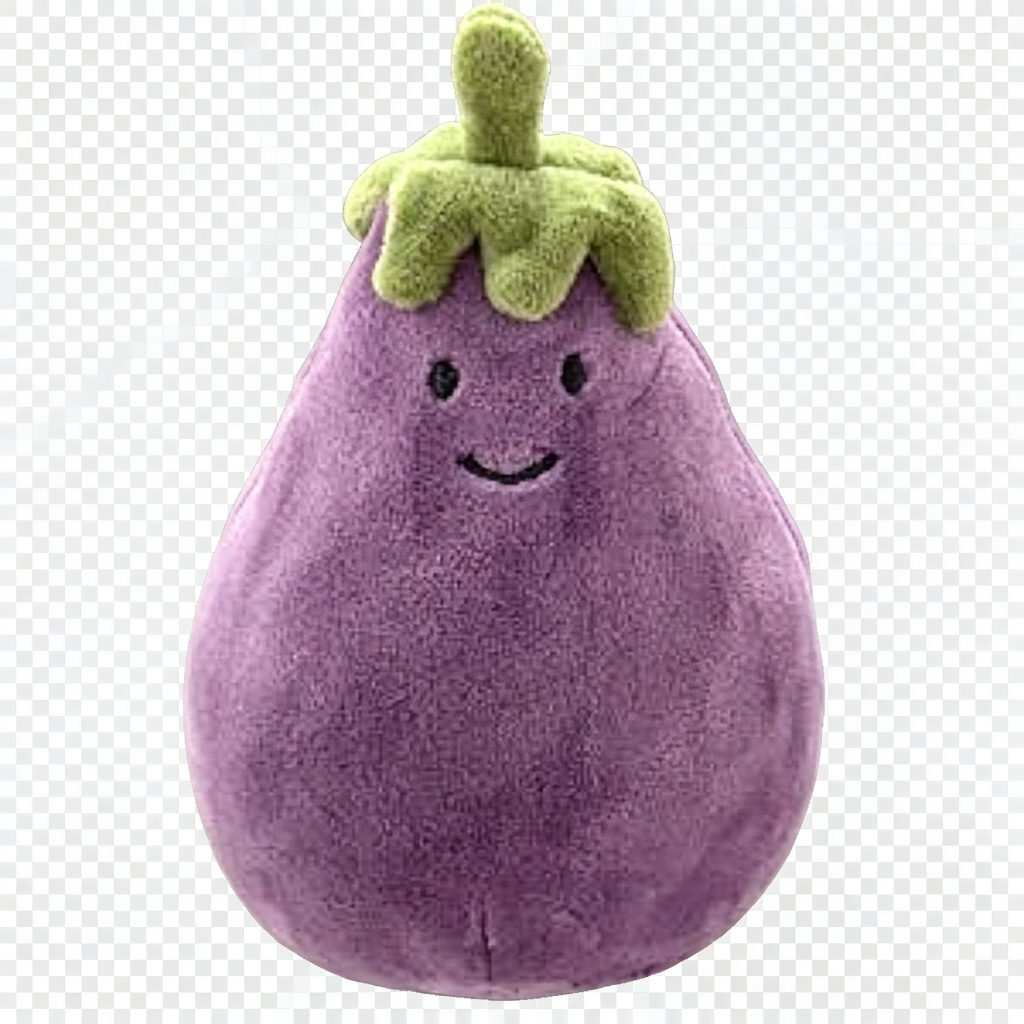
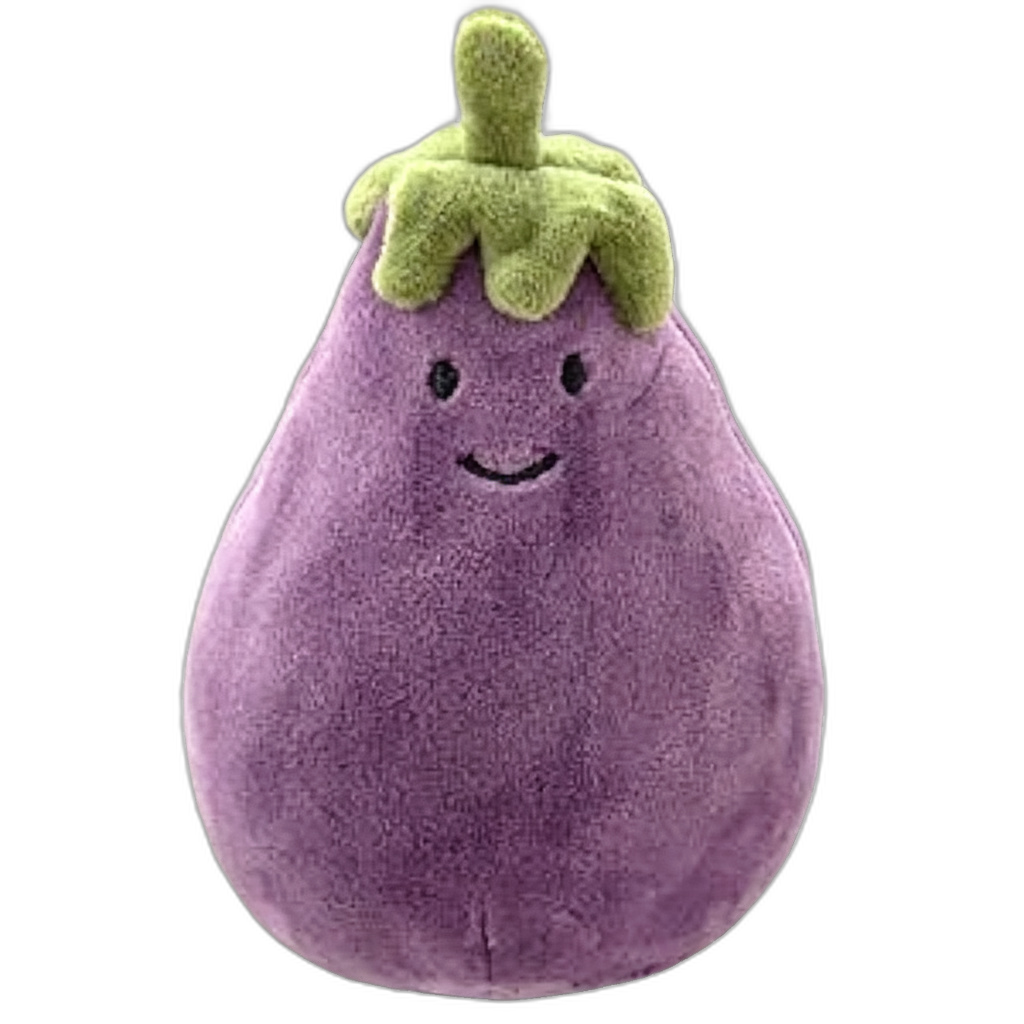
feat: 实现 macOS 和 Windows 的原生顶层窗口功能

diff --git a/main.py b/main.py
@@ -7,11 +7,78 @@
 import sys
 import os
 import random
+from ctypes import CFUNCTYPE, c_char_p, c_long, c_void_p, cdll, util
 from PyQt5.QtWidgets import (QApplication, QWidget, QLabel, QMenu, QAction,
                              QVBoxLayout, QHBoxLayout, QPushButton, QDialog,
                              QSlider, QGraphicsDropShadowEffect)
-from PyQt5.QtCore import Qt, QTimer, QPropertyAnimation, QEasingCurve, QPoint, QSize, pyqtProperty
+from PyQt5.QtCore import Qt, QTimer, QPropertyAnimation, QEasingCurve, QPoint, QSize, QRect, pyqtProperty
 from PyQt5.QtGui import QPixmap, QPainter, QColor, QFont, QFontMetrics, QPainterPath
+
+
+# macOS: Qt 的 WindowStaysOnTopHint 约等于 level=8；此前误用 NSFloatingWindowLevel=3 反而更低
+# 置顶用 NSStatusWindowLevel=25，才能压过普通应用窗口
+_MAC_STATUS_LEVEL = 25
+_MAC_NORMAL_LEVEL = 0
+# CanJoinAllSpaces | Stationary | FullScreenAuxiliary
+_MAC_COLLECTION_BEHAVIOR = (1 << 0) | (1 << 4) | (1 << 8)
+_HWND_TOPMOST = -1
+_HWND_NOTOPMOST = -2
+_SWP_NOMOVE = 0x0002
+_SWP_NOSIZE = 0x0001
+_SWP_SHOWWINDOW = 0x0040
+
+
+def apply_native_topmost(widget, enabled):
+    """用系统原生 API 设置置顶（Qt 的 WindowStaysOnTopHint 在 macOS 上常失效）"""
+    if widget is None:
+        return
+    try:
+        if sys.platform == "darwin":
+            _macos_set_window_level(widget, enabled)
+        elif sys.platform == "win32":
+            _windows_set_topmost(widget, enabled)
+    except Exception:
+        pass
+
+
+def _macos_set_window_level(widget, enabled):
+    libobjc = cdll.LoadLibrary(util.find_library("objc"))
+    sel_registerName = libobjc.sel_registerName
+    sel_registerName.restype = c_void_p
+    sel_registerName.argtypes = [c_char_p]
+
+    msg_void = CFUNCTYPE(c_void_p, c_void_p, c_void_p)(("objc_msgSend", libobjc))
+    msg_set_long = CFUNCTYPE(None, c_void_p, c_void_p, c_long)(("objc_msgSend", libobjc))
+    msg_set_bool = CFUNCTYPE(None, c_void_p, c_void_p, c_long)(("objc_msgSend", libobjc))
+
+    ns_view = c_void_p(int(widget.winId()))
+    ns_window = msg_void(ns_view, sel_registerName(b"window"))
+    if not ns_window:
+        return
+
+    # 失焦时不要自动隐藏（Tool 窗口默认可能 hidesOnDeactivate）
+    msg_set_bool(ns_window, sel_registerName(b"setHidesOnDeactivate:"), 0)
+
+    if enabled:
+        msg_set_long(ns_window, sel_registerName(b"setLevel:"), _MAC_STATUS_LEVEL)
+        msg_set_long(
+            ns_window,
+            sel_registerName(b"setCollectionBehavior:"),
+            _MAC_COLLECTION_BEHAVIOR,
+        )
+        msg_void(ns_window, sel_registerName(b"orderFrontRegardless"))
+    else:
+        msg_set_long(ns_window, sel_registerName(b"setLevel:"), _MAC_NORMAL_LEVEL)
+
+
+def _windows_set_topmost(widget, enabled):
+    user32 = cdll.LoadLibrary("user32")
+    hwnd = int(widget.winId())
+    insert_after = _HWND_TOPMOST if enabled else _HWND_NOTOPMOST
+    user32.SetWindowPos(
+        hwnd, insert_after, 0, 0, 0, 0,
+        _SWP_NOMOVE | _SWP_NOSIZE | _SWP_SHOWWINDOW,
+    )
 
 
 # ============== 对话气泡内容 ==============
@@ -161,8 +228,7 @@ class EggplantPet(QWidget):
 
         # 初始位置（屏幕右下角）
         self._init_position()
-
-        self.show()
+        self._apply_stay_on_top()
 
     def _get_resource_path(self, filename):
         """获取资源文件路径（兼容打包后）"""
@@ -278,10 +344,17 @@ class EggplantPet(QWidget):
 
         # 退出
         quit_action = QAction("退出", self)
-        quit_action.triggered.connect(self.close)
+        quit_action.triggered.connect(self._quit_app)
         menu.addAction(quit_action)
 
         menu.exec_(event.globalPos())
+
+    def _quit_app(self):
+        """彻底退出（macOS 上 Tool 窗口 close 不会结束进程，图标会留在程序坞）"""
+        self._hide_bubble()
+        app = QApplication.instance()
+        if app is not None:
+            app.quit()
 
     # ============== 大小调整 ==============
     def _set_scale(self, scale):
@@ -302,13 +375,27 @@ class EggplantPet(QWidget):
     def _toggle_stay_on_top(self):
         """切换置顶状态"""
         self.is_stay_on_top = not self.is_stay_on_top
-        flags = self.windowFlags()
+        self._apply_stay_on_top()
+
+    def _apply_stay_on_top(self):
+        """应用置顶状态（Qt 标志 + 原生窗口层级）"""
+        flags = Qt.FramelessWindowHint | Qt.Tool
         if self.is_stay_on_top:
             flags |= Qt.WindowStaysOnTopHint
-        else:
-            flags &= ~Qt.WindowStaysOnTopHint
+        pos = self.pos()
         self.setWindowFlags(flags)
+        self.move(pos)
         self.show()
+        self.raise_()
+        # 立即设置一次，并延后补设（等 Qt 建好 NSWindow 后再压高层级）
+        self._refresh_native_topmost()
+        QTimer.singleShot(0, self._refresh_native_topmost)
+        QTimer.singleShot(100, self._refresh_native_topmost)
+
+    def _refresh_native_topmost(self):
+        apply_native_topmost(self, self.is_stay_on_top)
+        if self.bubble is not None:
+            apply_native_topmost(self.bubble, self.is_stay_on_top)
 
     # ============== 互动动画 ==============
     def _trigger_interaction(self):
@@ -470,6 +557,7 @@ class EggplantPet(QWidget):
 
         self.bubble.move(bubble_x, bubble_y)
         self.bubble.show()
+        apply_native_topmost(self.bubble, self.is_stay_on_top)
 
         # 2.5秒后自动消失
         self.bubble_timer.start(2500)
@@ -484,6 +572,9 @@ class EggplantPet(QWidget):
     def closeEvent(self, event):
         self._hide_bubble()
         event.accept()
+        app = QApplication.instance()
+        if app is not None:
+            app.quit()
 
 
 def main():
